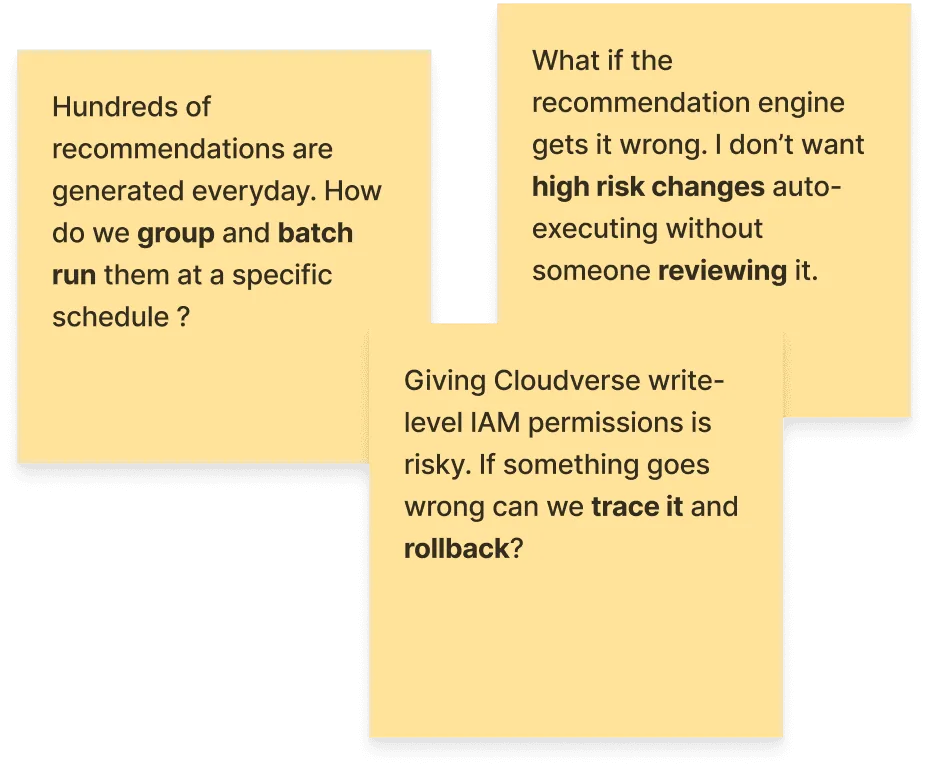
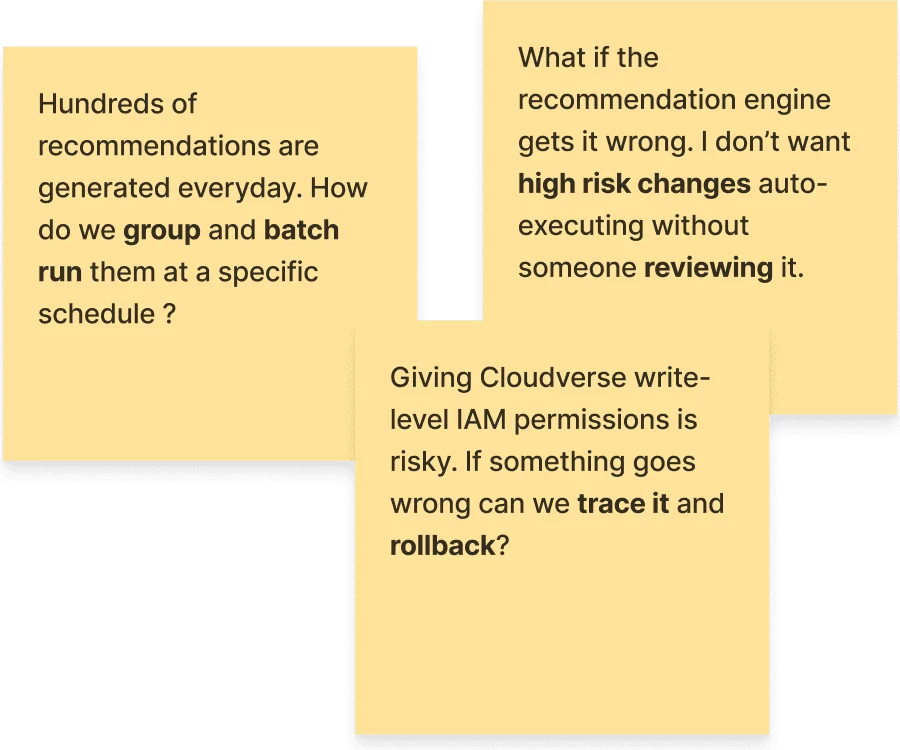
Case study figures on padded cards (trimmed images, equal padding); pond: pause on link press, try full quality when the floor does not help, show frame cost in data-perf
Claude-Session: https://claude.ai/code/session_01Tm2UQEhsVA9cBxdELZuFaK

diff --git a/app/pond/engine.ts b/app/pond/engine.ts
@@ -138,6 +138,8 @@ export type PondController = {
   setHighQuality(width: number | null): void;
   /** What a plain tap or left click does: splash the water (default) or toss corn. */
   setTapMode(mode: "splash" | "feed"): void;
+  /** Stop (true) or restart (false) drawing, e.g. while the page navigates away. */
+  setPaused(paused: boolean): void;
   /** Tiger scene: how furry the coat looks and how soft the tiger is, each 0..1. */
   setTigerStyle(style: Partial<{ fur: number; blur: number }>): void;
   /** Have a swan or two say something now (for previewing the lettering). */
@@ -3200,20 +3202,26 @@ export function startPond(
   let raf = 0;
   let last = performance.now();
   let visible = true;
+  let paused = false; // held by the page while it navigates away
   let pageVisible = !document.hidden;
   let perfAcc = 0;
   let perfN = 0;
+  let jsAcc = 0; // time spent running the frame itself (CPU side), for the data-perf readout
   let perfWarm = 120; // startup frames (shader compile, hydration) are not counted
   let goodRun = 0; // consecutive fast windows before climbing back
   let sinceUp = Infinity; // windows since the last climb
   let climbLocked = false; // climbs failed twice: stop trying for this session
   let failedClimbs = 0;
   let slowRun = 0; // consecutive slow windows
+  let floorAvg = 0; // frame time at the lowest quality, for judging the full-quality trial below
+  let probe = 0; // windows left in a full-quality trial (2 = settling, 1 = deciding)
+  let settled = false; // the trial is over: stop adapting
   let canopyTick = 0;
   const frameListeners = new Set<() => void>();
 
   const frame = (now: number) => {
     raf = 0;
+    const jsStart = performance.now();
     const real = (now - last) / 1000;
     const dt = Math.min(0.05, real);
     last = now;
@@ -3241,7 +3249,7 @@ export function startPond(
     } else if (perfN >= 45) {
       const avg = perfAcc / perfN;
       sinceUp++;
-      host.dataset.perf = `${Math.round(1 / avg)}fps scene=${sceneK.toFixed(2)} scale=${wd.toFixed(2)}`;
+      host.dataset.perf = `${Math.round(1 / avg)}fps scene=${sceneK.toFixed(2)} scale=${wd.toFixed(2)} js=${(jsAcc / perfN).toFixed(0)}ms`;
       const slow = hasGL && avg > 0.024;
       slowRun = slow ? slowRun + 1 : 0;
       const dropped = () => {
@@ -3260,12 +3268,35 @@ export function startPond(
       // shed load from the water first (the brushwork hides it), and only
       // then soften the whole picture. Two slow windows in a row are needed, so a
       // one-off hitch (a GC pause, a tab switch) never costs resolution.
-      if (slow && slowRun >= 2 && sceneK > 0.42) {
+      if (probe > 0) {
+        // Trial of full quality (see below): the first window is settling, the second decides.
+        if (--probe === 0) {
+          // clearly slower than the floor: resolution does cost time here, so the floor was right
+          if (avg > floorAvg * 1.25) {
+            sceneK = 0.42;
+            wd = 0.85;
+            sizeLayers();
+          }
+          settled = true;
+        }
+      } else if (settled) {
+        // the trial is over; hold whatever it chose
+      } else if (slow && slowRun >= 2 && sceneK > 0.42) {
         sceneK = Math.max(0.42, sceneK - 0.1);
         dropped();
       } else if (slow && slowRun >= 2 && wd > 0.85) {
         wd = Math.max(0.85, wd - 0.15);
         dropped();
+      } else if (slow && slowRun >= 2) {
+        // Already at the lowest quality and still slow: the water's resolution is not what is
+        // costing the time, so the soft picture buys nothing. Try full quality, and keep it
+        // unless it turns out clearly slower.
+        floorAvg = avg;
+        sceneK = 0.7;
+        wd = maxWd;
+        slowRun = 0;
+        probe = 2;
+        sizeLayers();
       } else if (hasGL && avg < 0.0185 && !climbLocked && (wd < maxWd || sceneK < 0.7)) {
         if (++goodRun >= 3) {
           if (wd < maxWd) wd = Math.min(maxWd, wd + 0.1);
@@ -3277,6 +3308,7 @@ export function startPond(
       }
       perfAcc = 0;
       perfN = 0;
+      jsAcc = 0;
     }
 
     // looks change like light does: gradually
@@ -3373,17 +3405,19 @@ export function startPond(
 
     updateTalk();
     for (const cb of frameListeners) cb();
+    if (perfWarm > 0) jsAcc = 0;
+    else jsAcc += performance.now() - jsStart;
     scheduleFromFrame();
   };
 
   const schedule = () => {
-    if (!raf && visible && pageVisible) {
+    if (!raf && visible && pageVisible && !paused) {
       last = performance.now();
       raf = requestAnimationFrame(frame);
     }
   };
   const scheduleFromFrame = () => {
-    if (!raf && visible && pageVisible) raf = requestAnimationFrame(frame);
+    if (!raf && visible && pageVisible && !paused) raf = requestAnimationFrame(frame);
   };
 
   const io = new IntersectionObserver(([entry]) => {
@@ -3429,6 +3463,13 @@ export function startPond(
     },
     setTapMode(mode) {
       tapFeeds = mode === "feed";
+    },
+    setPaused(p) {
+      paused = p;
+      if (p) {
+        if (raf) cancelAnimationFrame(raf);
+        raf = 0;
+      } else schedule();
     },
     setHighQuality(width) {
       if (!hasGL) return;

diff --git a/app/work/cloudverse-story.ts b/app/work/cloudverse-story.ts
@@ -23,7 +23,7 @@ export const cloudverseStory: Story = {
           figure: {
             src: "/work/cloudverse/hero-dashboard.webp",
             width: 1200,
-            height: 781,
+            height: 780,
             alt: "Cloudverse cost dashboard showing total spend across AWS, GCP and Azure, with the cost trend explorer",
             caption: "Cost dashboard: spend across clouds, before automation",
           },
@@ -57,8 +57,8 @@ export const cloudverseStory: Story = {
           kind: "figure",
           figure: {
             src: "/work/cloudverse/research-notes.webp",
-            width: 929,
-            height: 769,
+            width: 900,
+            height: 750,
             alt: "Sticky notes with user concerns about batching, risky changes and rollback",
             caption: "What users kept raising in discovery",
           },
@@ -72,7 +72,7 @@ export const cloudverseStory: Story = {
           figure: {
             src: "/work/cloudverse/flow.webp",
             width: 1200,
-            height: 357,
+            height: 346,
             alt: "Flow from the optimisation engine's recommendations to the automations module",
             caption: "From recommendation to executed policy",
           },
@@ -91,8 +91,9 @@ export const cloudverseStory: Story = {
           kind: "figure",
           figure: {
             src: "/work/cloudverse/colour-tokens.webp",
-            width: 773,
-            height: 1200,
+            fit: "bleed",
+            width: 1160,
+            height: 1800,
             alt: "Colour tokens with hex values and usage notes",
             caption: "Colour tokens, with the job each one does",
           },
@@ -101,6 +102,7 @@ export const cloudverseStory: Story = {
           kind: "figure",
           figure: {
             src: "/work/cloudverse/dashboard-elements.webp",
+            fit: "bleed",
             width: 1200,
             height: 1183,
             alt: "Dashboard elements: anomaly cards, tables, tabs and tooltips",
@@ -136,7 +138,7 @@ export const cloudverseStory: Story = {
           figure: {
             src: "/work/cloudverse/policy-dry-run.webp",
             width: 1200,
-            height: 742,
+            height: 728,
             alt: "Policy creation screen with a dry run preview",
             caption: "Policy creation with a dry run preview",
           },
@@ -146,7 +148,7 @@ export const cloudverseStory: Story = {
           figure: {
             src: "/work/cloudverse/review.webp",
             width: 1200,
-            height: 742,
+            height: 725,
             alt: "Review and approvals table of pending recommendations",
             caption: "Review and approvals",
           },
@@ -156,7 +158,7 @@ export const cloudverseStory: Story = {
           figure: {
             src: "/work/cloudverse/logs.webp",
             width: 1200,
-            height: 742,
+            height: 728,
             alt: "Execution logs with run status, savings and rollback",
             caption: "Execution logs, with rollback",
           },

diff --git a/app/pond/pond-hero.tsx b/app/pond/pond-hero.tsx
@@ -47,7 +47,23 @@ export default function PondHero() {
       ctl.setParams(now.params);
     }, 30_000);
 
+    // Pressing an internal link starts a page change on the same main thread the pond draws on,
+    // so hold the pond still for the moment it takes. (If nothing navigates, it restarts.)
+    let resume = 0;
+    const onPress = (e: PointerEvent) => {
+      if (e.button !== 0 || e.metaKey || e.ctrlKey || e.shiftKey || e.altKey) return;
+      const a = (e.target as Element | null)?.closest?.("a[href]") as HTMLAnchorElement | null;
+      if (!a || a.target === "_blank" || a.origin !== window.location.origin) return;
+      if (a.pathname === window.location.pathname && a.search === window.location.search) return;
+      ctl.setPaused(true);
+      window.clearTimeout(resume);
+      resume = window.setTimeout(() => ctl.setPaused(false), 2500);
+    };
+    document.addEventListener("pointerdown", onPress, true);
+
     return () => {
+      document.removeEventListener("pointerdown", onPress, true);
+      window.clearTimeout(resume);
       window.clearInterval(clock);
       ctl.destroy();
       water.remove();

diff --git a/app/globals.css b/app/globals.css
@@ -1015,11 +1015,22 @@ html.is-theme-switching .theme-toggle-icon {
 }
 
 .cs-figure { margin: 14px 0 0; width: 100%; }
+/* A card with one fixed padding all round, the image centred and never cropped.
+   Mockups carry their own transparent margins, which are trimmed off the files so the
+   padding is the same on every figure. Full-page sheets (is-bleed) fill the card instead. */
 .cs-figure-frame {
-  border: 1px dashed var(--border-soft);
-  border-radius: 12px;
+  display: flex;
+  align-items: center;
+  justify-content: center;
+  padding: 32px;
+  border-radius: 20px;
+  background: #f2f2f2;
   overflow: hidden;
-  background: var(--bg-surface);
+}
+.cs-figure-frame.is-bleed { padding: 0; }
+@media (max-width: 720px) {
+  .cs-figure-frame { padding: 18px; border-radius: 16px; }
+  .cs-figure-frame.is-bleed { padding: 0; }
 }
 .cs-figure img {
   display: block;

diff --git a/app/work/data.ts b/app/work/data.ts
@@ -4,7 +4,8 @@ import { cloudverseStory } from "./cloudverse-story";
  * Everything on the Work pages. Copy below is placeholder until each piece is written;
  * edit here and the homepage lists, the tabs and the detail pages all follow.
  */
-export type Figure = { src: string; width: number; height: number; alt: string; caption: string };
+/** `card` (default): a transparent mockup centred on a padded card. `bleed`: an opaque full-page sheet, edge to edge. */
+export type Figure = { src: string; width: number; height: number; alt: string; caption: string; fit?: "card" | "bleed" };
 
 /** One block inside a section: a paragraph, a quote, a list, or a figure. */
 export type Block =

diff --git a/app/work/case-study-view.tsx b/app/work/case-study-view.tsx
@@ -78,7 +78,7 @@ function renderBlock(b: Block, i: number) {
     case "figure":
       return (
         <figure key={i} className="cs-figure">
-          <div className="cs-figure-frame">
+          <div className={`cs-figure-frame${b.figure.fit === "bleed" ? " is-bleed" : ""}`}>
             <FigureImage figure={b.figure} />
           </div>
           <figcaption>{b.figure.caption}</figcaption>
